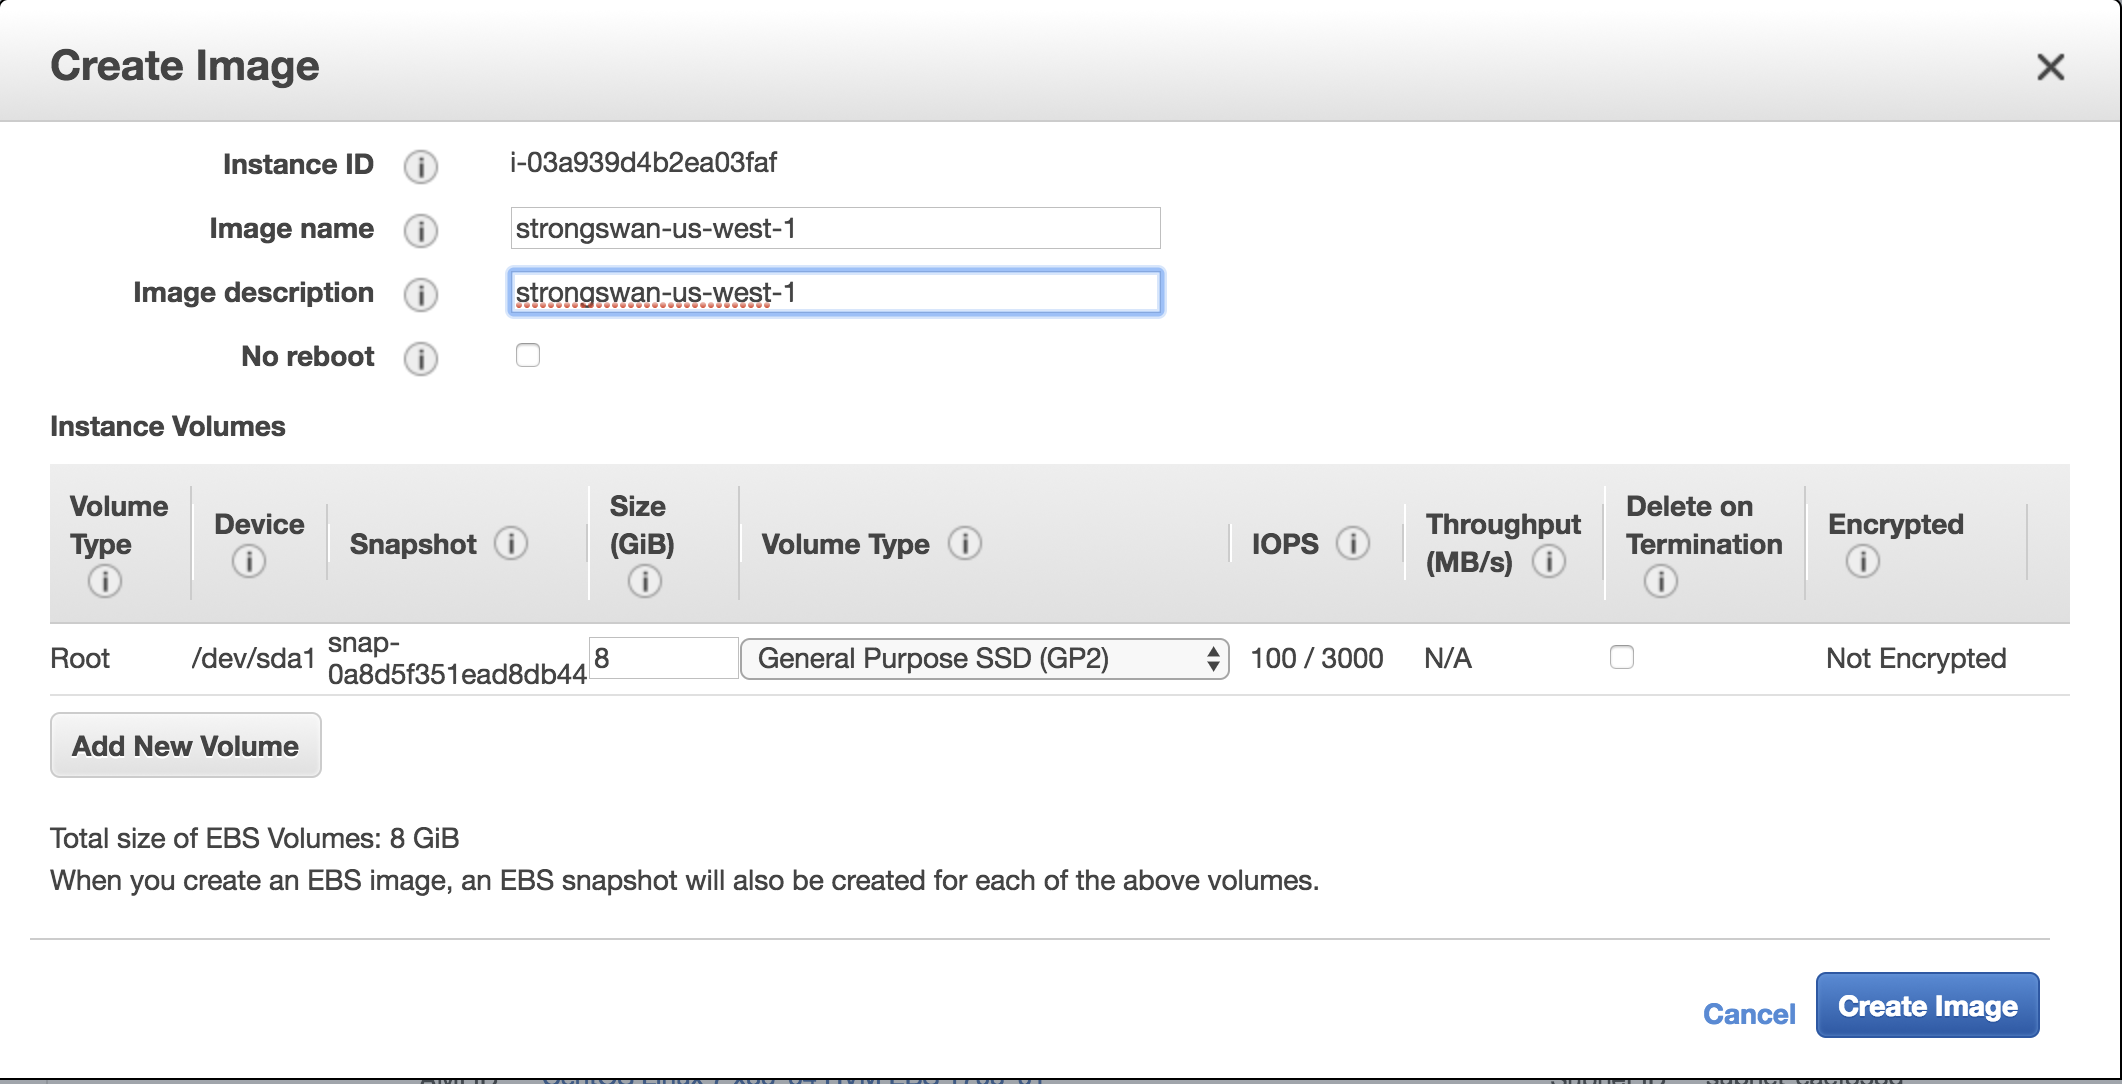
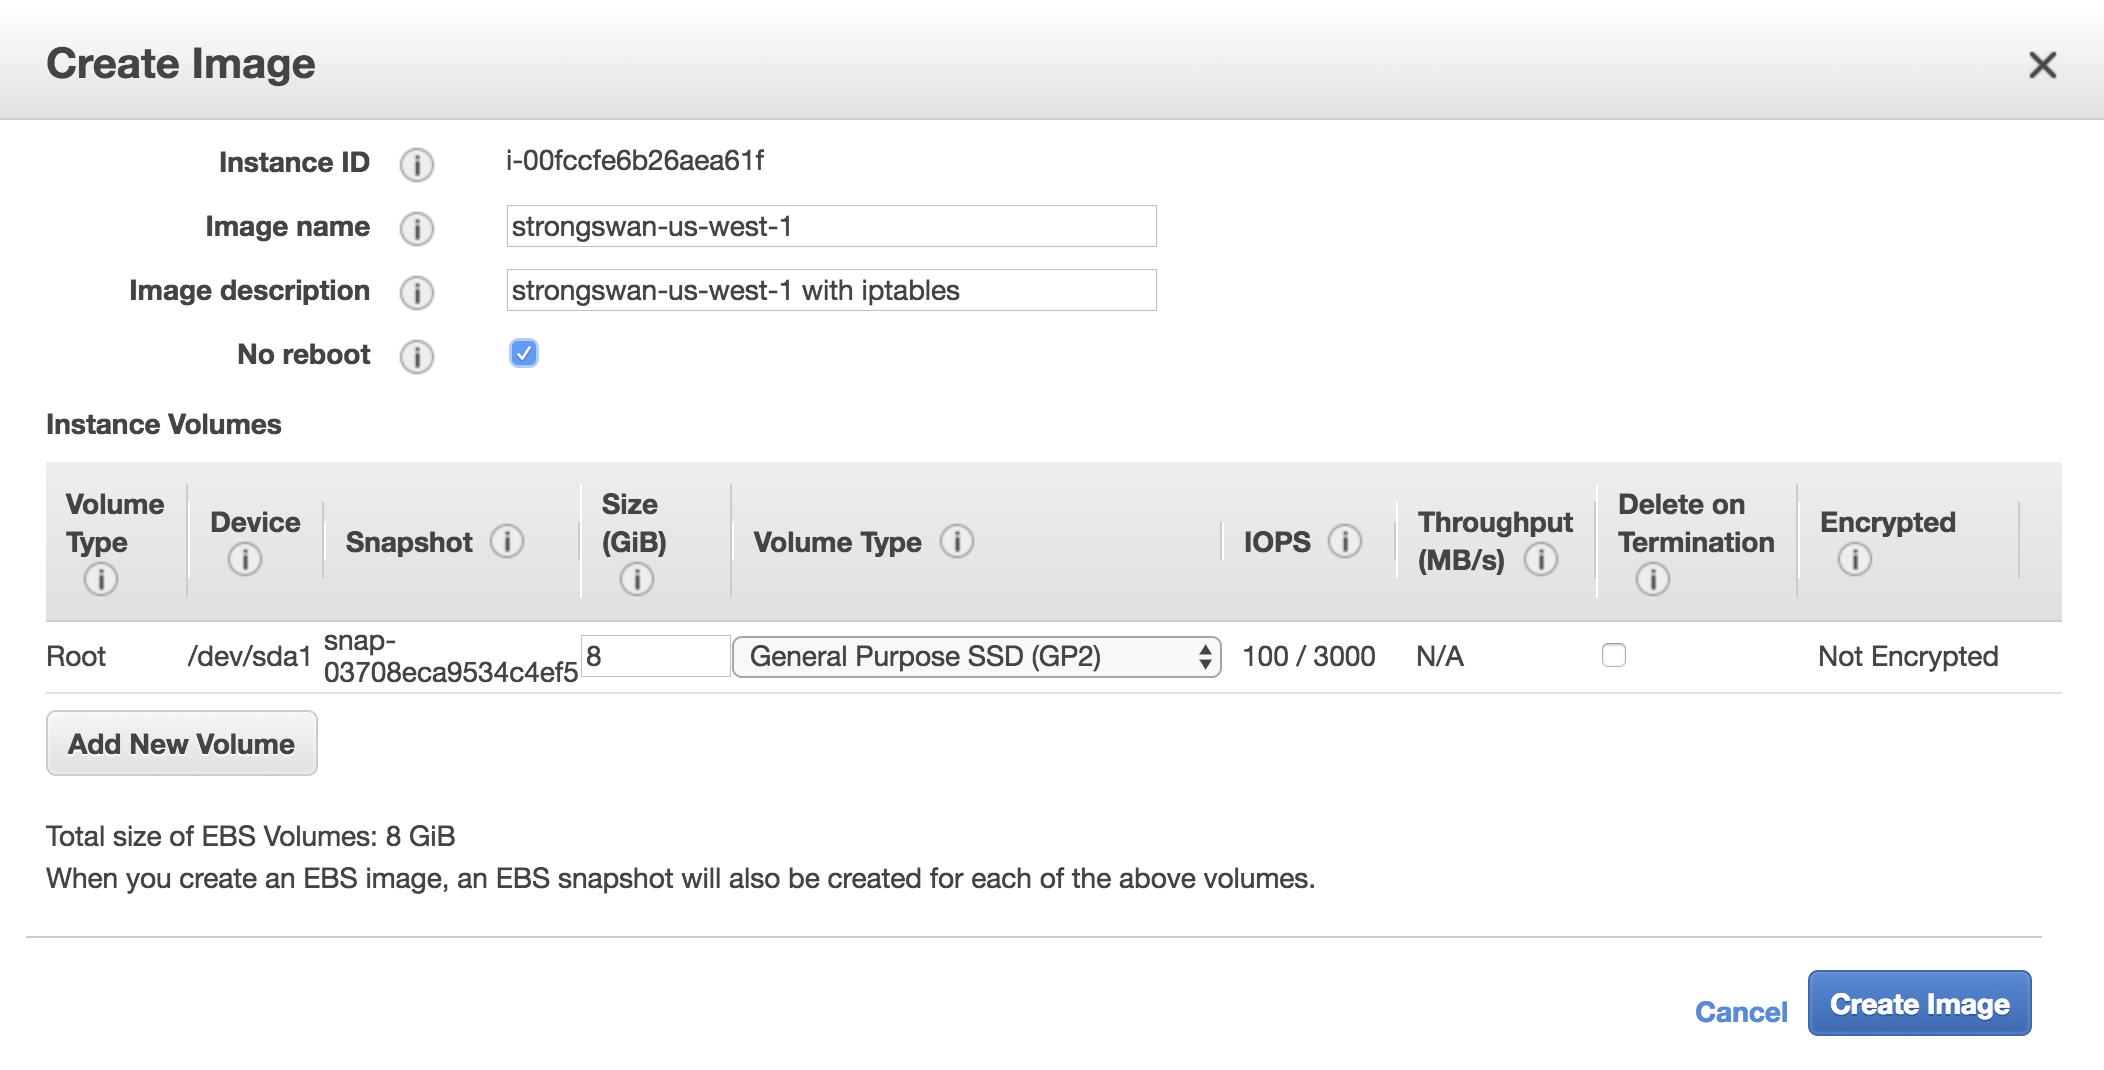
stage 7 auto scaling group

diff --git a/vpc/stage7-autoscaling.md b/vpc/stage7-autoscaling.md
@@ -7,34 +7,132 @@ Now, we will setup a auto scaling group for strongswan for the HA setting.
 #### My AMIs
 
 1. Select your `strongswan` ec2 instance.
-2. In actions >> image >> create image
+2. In actions >> image >> create image.
+
+	![](images/lab7/0-action-create-image.png)
+	
+	Here, we click on `no reboot` to avoid the connection broken.
+	Name: strongswan-us-west-1
+	
 	![](images/lab7/0-create-image.png)
 
 ### Create launch configuration
 
-1. Choose AMI from My AMIs.
+1. Choose AMI from My AMIs. select `strongswan-us-west-1` image.
 
 	![](images/lab7/1-launch-configuration.png)
 	
 2. Choose Instance
+	- t2.micro
 3. Configure details
-	- name: ag-lc-strongswan
+	- name: asg-strongswan
+	- choose do not assign a public address. Becuase strongswan need use static ip, so we need to bind a EIP.
 
 	![](images/lab7/2-as-lc-name.png)
-	
-4. Configure security group. select strongswan security group.
+
+4. choose default storage: 8GB SSD. click on `delete on termination`.
+
+5. Configure security group. select strongswan security group.
 
 	![](images/lab7/3-as-lc-sg.png)
 	
-5. Then save the launch configuration.
+6. Then save the launch configuration.
+
+7. After save, you will go to create auto scaling group page.
+
+	![](images/lab7/4-as-lc-end.png)
 
 ### Create Auto Scaling Group
 
+1. In the configuration page:
+	- name: asg-strongswan
+	- group size: put `0` here first because we will attach current running strongswan into this group.
+	- Network: choose `vpc-172.20.0.0/16`
+	- Grace period: 30 seconds
+
+	![](images/lab7/5-asg-create.png) 
+	
+2. In the next page, choose `Keep this group at its initial size`.
+3. Skip notification. We can add it in the future.
+4. Add Name tag: `asg-strongswan` so that we will know this instance is created by auto scaling group.
+5. Review and create the auto scaling group.
+
+	![](images/lab7/6-asg-created.png)
+
+### Attach an instance to auto scaling group
+
+1. Edit the asg-strongswan. Set Max 1
+
+	![](images/lab7/8-asg-max.png)
+
+2. Select running strongswan instance. Choose actions >> instance setting >> attach to auto scaling group.
+
+	![](images/lab7/7-asg-attach.png)
+	
+3. Attach to existing `asg-strongswan` group:
+
+	![](images/lab7/9-asg-attach.png)
+	
+4. Now, edit the asg-strongswan again. Set the Min 1
+
+	![](images/lab7/10-asg-min.png)
+	
+5. You finished the auto scaling group setting:
+	- Min: 1
+	- Max: 1
+	
+	Also, important thing is without interrupts current running tunnel.
+	
+### Testing auto scaling
+
+1. Stop current running strongswan instance.
+
+	![](images/lab7/11-stop-strongswan.png)
+	
+2. Later on, auto scaling group will start launch a new strongswan instnace.
+
+	![](images/lab7/12-start-new-strongswan.png)
+	
+3. Change the ec2 without checking the source/destination
+
+	![](images/lab7/15-ec2-withoutcheck.png)
+	
+4. Modify the route table: `rtb-172.20.0.0/16`. Set 172.30.0.0/16 to the new instance.
+	
+	![](images/lab7/16-ec2-rtb.png)
 
 
+5. Attach static ip to the new instance.
 
-### Change Routes
+	![](images/lab7/13-eip-strongswan.png)
+	
+6. ssh to the new instance via EIP and `sudo su`.
+7. modify `/etc/strongswan/ipsec.conf`. Change left to current private ip.
 
-1. Route table: `rtb-172.20.0.0/16`
-	- set 172.30.0.0/16 to the new instance
-2. 
+	![](images/lab7/14-left-strongswan.png)
+	
+8. Run the following command to start strongswan
+	```
+	iptables -t nat -A POSTROUTING -s 172.30.0.0/16 -m policy --dir out --pol ipsec -j ACCEPT
+	iptables -t nat -A POSTROUTING -s 172.30.0.0/16 -j MASQUERADE
+	systemctl restart strongswan
+	strongswan up vpg-34.240.82.0
+	```
+	
+	![](images/lab7/17-connection-rebuilt.png)
+
+# Take Away
+
+Now, we have a auto scaling group for the strongswan. The benefit is when strongswan has issues. The auto scaling group will create a new instance for you.
+
+But, because we have **stateful** configuration for strongswan such as
+
+	- ElasticIP binding
+	- Routing table
+	- Strongswan configuration
+
+The better solution is triggered notificaiton event. Use event call a lumbda function to change the above things.
+
+Now, we have the following architecture diagram:
+
+![](images/lab7/0-architecture.png)

diff --git a/vpc/stage6-proxy.md b/vpc/stage6-proxy.md
@@ -18,6 +18,7 @@ In the end of this stage, you can create a proxy server. And the, you will confi
 5. modify `/etc/squid/squid.conf`
 
 	```
+	acl localnet src 172.20.0.0/16  # RFC1918 possible internal network
 	acl localnet src 172.30.0.0/16  # RFC1918 possible internal network
 #acl localnet src 172.16.0.0/12 # RFC1918 possible internal network
 	```
@@ -44,7 +45,7 @@ In the end of this stage, you can create a proxy server. And the, you will confi
 	proxy_username=yum-user
 	proxy_password=qwerty
 	```
-3. run `sudo yum update -y` to verify you can update your packages.
+3. run `sudo yum update -y` to verify that you can update your packages.
 
 ## Take away
 

diff --git a/vpc/README.md b/vpc/README.md
@@ -20,6 +20,7 @@ At the end of this assignment you will have created a Shared services VPC using 
 - [Stage 4: Setup Virtual Private Gateway and VPN Connections](stage4-vgw.md)
 - [Stage 5: Connect VPN connections](stage5-vnp-tunnel.md)
 - [Stage 6: Setup Proxy](stage6-proxy.md)
+- [Stage 7: Auto scaling group](stage7-autoscaling.md)
 
 
 ## Reference Links
